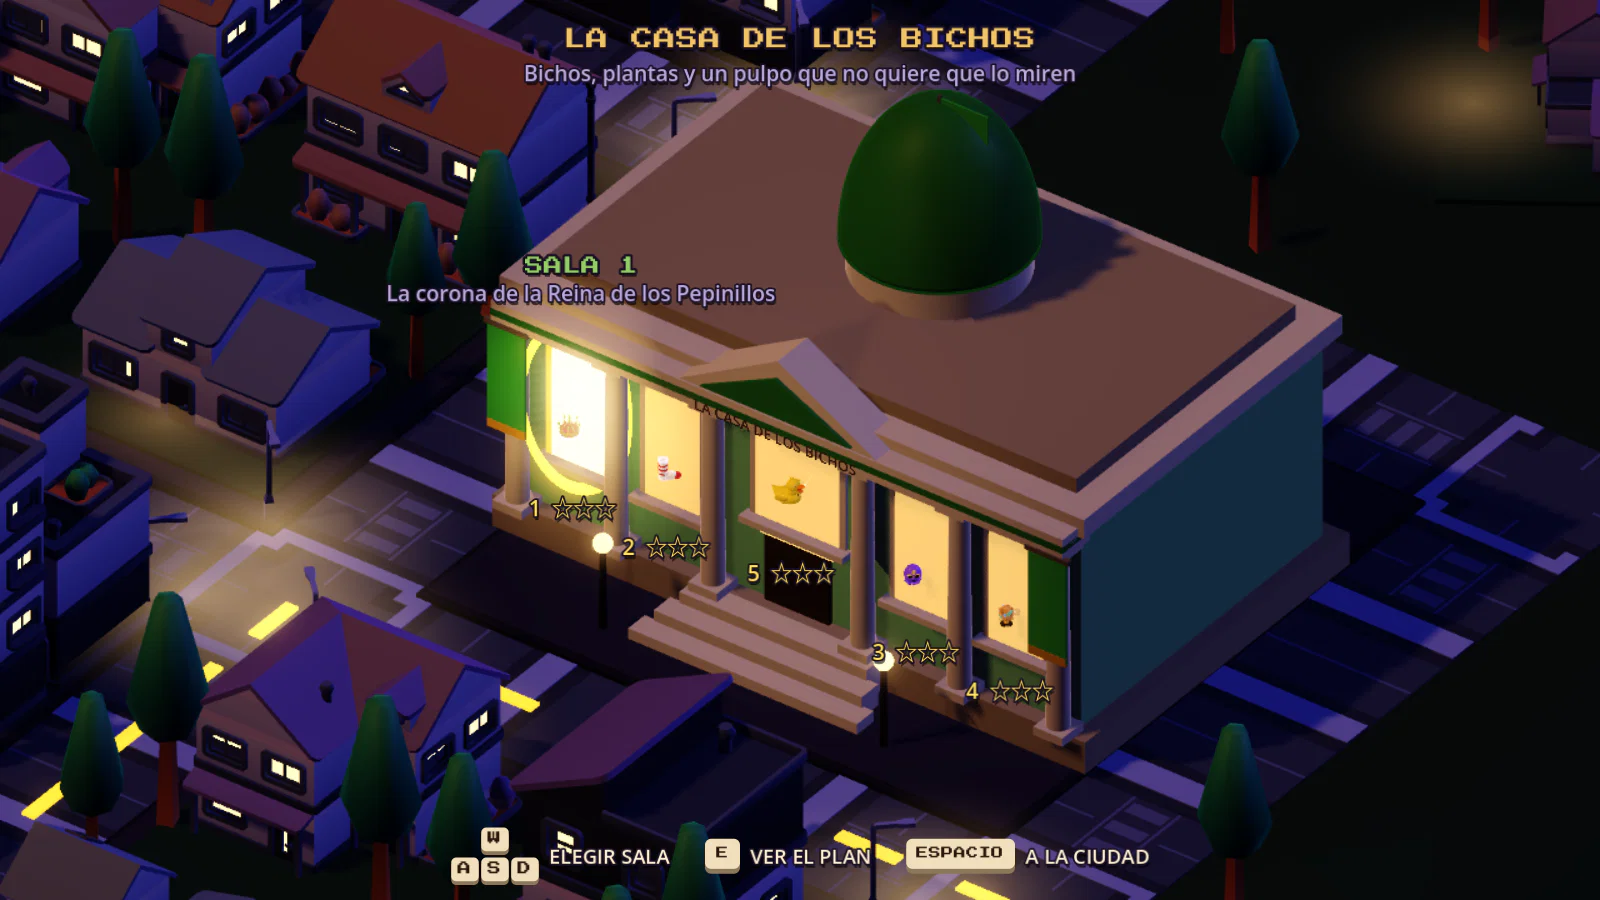
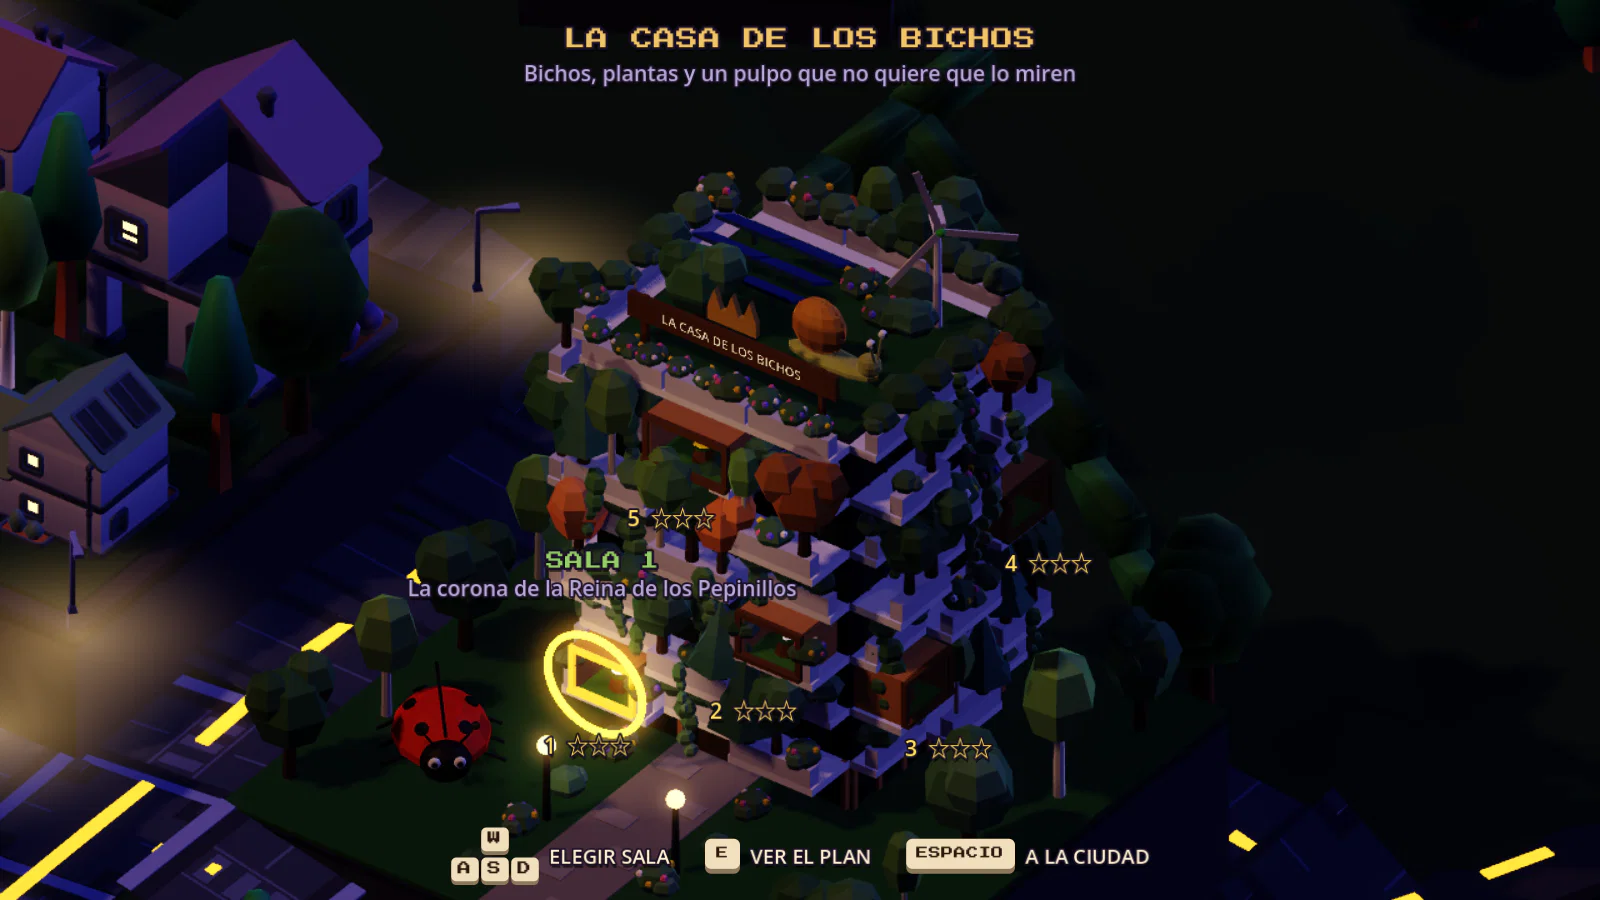
Docs: la captura de La Casa de los Bichos como bosque vertical, las funciones nuevas del edificio y su hito

diff --git a/docs/data/funciones.js b/docs/data/funciones.js
@@ -546,22 +546,39 @@ window.FUNCIONES = {
  "arrow": "scenes/minigame_view.gd:83",
  "cylinder_mesh": "scenes/minigame_view.gd:106",
  "glowing": "scenes/minigame_view.gd:115",
- "_hall": "scenes/museum_building.gd:119",
- "_windows": "scenes/museum_building.gd:212",
- "_prehistory": "scenes/museum_building.gd:283",
- "_slot_at": "scenes/museum_building.gd:436",
- "_slot_turn": "scenes/museum_building.gd:443",
- "_slot_key": "scenes/museum_building.gd:447",
- "_plain": "scenes/museum_building.gd:456",
- "_tyrannosaur": "scenes/museum_building.gd:507",
- "_long_neck": "scenes/museum_building.gd:528",
- "_shade": "scenes/museum_building.gd:545",
- "_ball": "scenes/museum_building.gd:549",
- "_cone": "scenes/museum_building.gd:559",
- "window_centre": "scenes/museum_building.gd:585",
- "_box_in": "scenes/museum_building.gd:607",
- "_mesh_in": "scenes/museum_building.gd:617",
- "_lit_material": "scenes/museum_building.gd:635",
+ "_hall": "scenes/museum_building.gd:123",
+ "_windows": "scenes/museum_building.gd:216",
+ "_prehistory": "scenes/museum_building.gd:287",
+ "_slot_at": "scenes/museum_building.gd:440",
+ "_slot_turn": "scenes/museum_building.gd:447",
+ "_slot_key": "scenes/museum_building.gd:451",
+ "_plain": "scenes/museum_building.gd:460",
+ "_tyrannosaur": "scenes/museum_building.gd:511",
+ "_long_neck": "scenes/museum_building.gd:532",
+ "_shade": "scenes/museum_building.gd:549",
+ "_ball": "scenes/museum_building.gd:553",
+ "_cone": "scenes/museum_building.gd:563",
+ "window_centre": "scenes/museum_building.gd:592",
+ "_box_in": "scenes/museum_building.gd:614",
+ "_mesh_in": "scenes/museum_building.gd:624",
+ "_lit_material": "scenes/museum_building.gd:642",
+ "_nature": "scenes/museum_building.gd:771",
+ "_n_key": "scenes/museum_building.gd:929",
+ "_n_face": "scenes/museum_building.gd:935",
+ "_n_width": "scenes/museum_building.gd:940",
+ "_n_part": "scenes/museum_building.gd:946",
+ "_n_shape": "scenes/museum_building.gd:951",
+ "_n_xf": "scenes/museum_building.gd:955",
+ "_n_planter": "scenes/museum_building.gd:963",
+ "_n_niche": "scenes/museum_building.gd:989",
+ "_n_roof": "scenes/museum_building.gd:1010",
+ "_n_ladybird": "scenes/museum_building.gd:1046",
+ "_n_snail": "scenes/museum_building.gd:1072",
+ "_n_plant": "scenes/museum_building.gd:1087",
+ "_n_flush_plants": "scenes/museum_building.gd:1097",
+ "_n_plant_mesh": "scenes/museum_building.gd:1120",
+ "_n_prim": "scenes/museum_building.gd:1157",
+ "_n_material": "scenes/museum_building.gd:1200",
  "looks": "scenes/museum_view.gd:70",
  "mix": "scenes/museum_view.gd:82",
  "to_world": "scenes/museum_view.gd:115",

diff --git a/docs/data/versiones.js b/docs/data/versiones.js
@@ -711,6 +711,22 @@ window.VERSIONES = {
    "bytes": 61764
   },
   {
+   "asunto": "museo",
+   "fecha": "2026-09-28T20:24",
+   "commit": "8fcc708",
+   "titulo": "La Casa de los Bichos, un bosque vertical",
+   "porque": "El segundo museo con su propio edificio, inspirado en la arquitectura bioclimática del Bosque Vertical",
+   "cambio": "Una torre oscura de seis plantas con balcones blancos en zigzag y jardineras llenas de árboles, arbustos, flores y enredaderas; en la cubierta pradera, placas solares, un aerogenerador, un caracol gigante y el cartel de madera; delante, césped con una mariquita gigante. Las salas, huecos forrados de madera entre la vegetación (1 y 2 en la fachada, 3 y 4 en el costado, el gran golpe arriba en el centro con la corona sobre el cartel), sin ventanas iluminadas; lo no desbloqueado, un balcón más",
+   "file": "versiones/museo/2026-09-28-la-casa-de-los-bichos-un-bosque-vertical.webp",
+   "from": "docs/capturas/menu_museo_2.webp",
+   "commit_msg": "",
+   "size": [
+    1280,
+    720
+   ],
+   "bytes": 53044
+  },
+  {
    "asunto": "recreativa",
    "fecha": "2026-09-27T14:55",
    "commit": "59b9a18",
@@ -743,5 +759,5 @@ window.VERSIONES = {
    "bytes": 68042
   }
  ],
- "bytes": 2808876
+ "bytes": 2861920
 };
